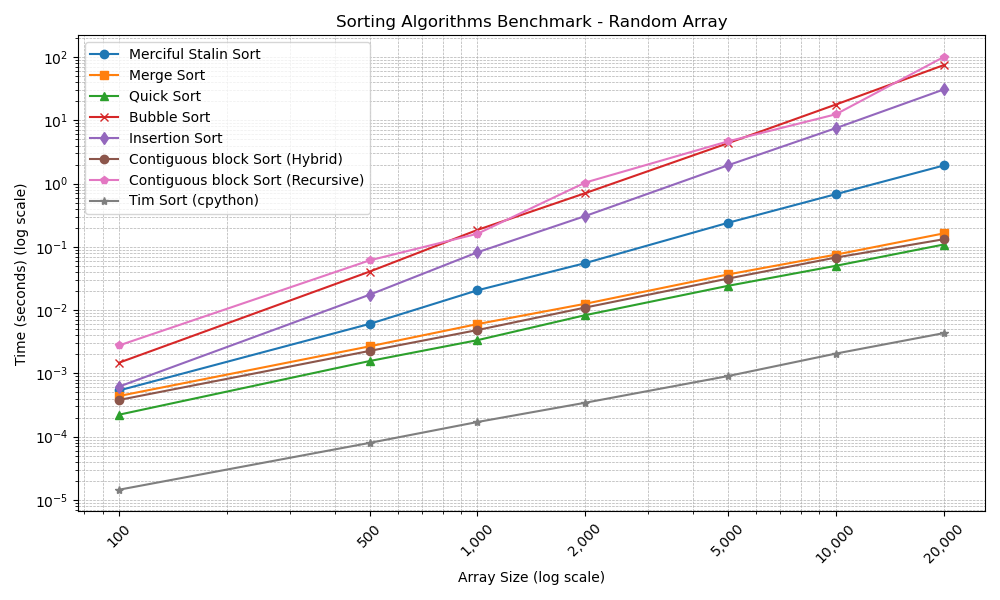
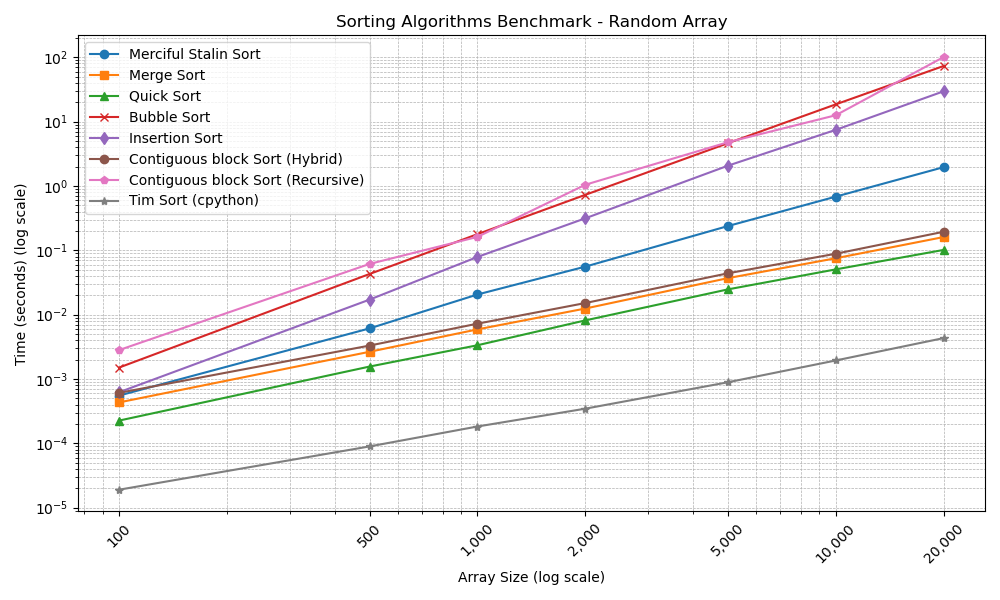
Update project

diff --git a/sorts/contiguous_block_sort_hybrid.py b/sorts/contiguous_block_sort_hybrid.py
@@ -84,4 +84,4 @@ def contiguous_block_sort_hybrid(L):
         return contiguous_range
     s, e = L[:start], L[end:]
     # Merge the three parts: left, contiguous range, and right
-    return quick_sort(merge_arrays(merge_arrays(s, contiguous_range), e))
+    return merge_sort(merge_arrays(merge_arrays(s, contiguous_range), e))

diff --git a/ContiguousBlockSort_README.md b/ContiguousBlockSort_README.md
@@ -7,11 +7,11 @@ This repository contains two implementations of the Contiguous Block Sort algori
 
 ### Hybrid Implementation
 
-The Hybrid implementation of Contiguous Block Sort combines the identification of the longest contiguous subarray with a hybrid sorting approach. It utilizes the Quick Sort algorithm for merging non-contiguous parts.
+The Hybrid implementation of Contiguous Block Sort combines the identification of the longest contiguous subarray with a hybrid sorting approach. It utilizes the Merge Sort algorithm for merging non-contiguous parts.
 
 - **Best Case**: O(n) - The array is fully contiguous and already sorted.
 - **Average Case**: O(n log n) - Typical scenario with mixed order.
-- **Worst Case**: O(n²) - Minimal contiguous subarray segments, requiring extensive merging.
+- **Worst Case**: O(n log n) - Minimal contiguous subarray segments, requiring extensive merging.
 
 ### Recursive Implementation
 
@@ -25,15 +25,15 @@ The Recursive implementation takes a divide-and-conquer approach, sorting the no
 
 | Case          | Hybrid                | Recursive             |
 |---------------|-----------------------|-----------------------|
-| Best Case     | O(n)                 | O(n)                 |
-| Average Case  | O(n log n)           | O(n log n)           |
-| Worst Case    | O(n²)                | O(n²)                |
+| Best Case     | O(n)                  | O(n)                  |
+| Average Case  | O(n log n)            | O(n log n)            |
+| Worst Case    | O(n log n)            | O(n²)                 |
 
 ## Algorithm Analysis
 
 ### Contiguous Block Sort Behavior
 
-Both implementations rely on identifying the **longest contiguous subarray**, which determines the central "sorted" range of the array. Non-contiguous segments are sorted using either recursive calls or hybrid methods involving Quick Sort.
+Both implementations rely on identifying the **longest contiguous subarray**, which determines the central "sorted" range of the array. Non-contiguous segments are sorted using either recursive calls or hybrid methods involving Merge Sort.
 
 ### Runtime Complexity
 
@@ -42,22 +42,22 @@ Both implementations rely on identifying the **longest contiguous subarray**, wh
 
 ### Comparison to Other Algorithms
 
-| Algorithm          | Best Case   | Average Case | Worst Case   |
-|--------------------|-------------|--------------|--------------|
-| Bubble Sort        | O(n)        | O(n²)        | O(n²)        |
-| Insertion Sort     | O(n)        | O(n²)        | O(n²)        |
-| Merge Sort         | O(n log n)  | O(n log n)   | O(n log n)   |
-| Quick Sort         | O(n log n)  | O(n log n)   | O(n²)        |
-| Contiguous Block Sort (Hybrid)  | O(n)        | O(n log n)   | O(n²)        |
-| Contiguous Block Sort (Recursive)| O(n)        | O(n log n)   | O(n²)        |
-| Merciful Stalin Sort| O(n)        | O(n log n)   | O(n log n)   |
+| Algorithm                         | Best Case    | Average Case | Worst Case   |
+|-----------------------------------|--------------|--------------|--------------|
+| Bubble Sort                       | O(n)         | O(n²)        | O(n²)        |
+| Insertion Sort                    | O(n)         | O(n²)        | O(n²)        |
+| Merge Sort                        | O(n log n)   | O(n log n)   | O(n log n)   |
+| Quick Sort                        | O(n log n)   | O(n log n)   | O(n²)        |
+| Contiguous Block Sort (Hybrid)    | O(n)         | O(n log n)   | O(n log n)   |
+| Contiguous Block Sort (Recursive) | O(n)         | O(n log n)   | O(n²)        |
+| Merciful Stalin Sort              | O(n)         | O(n log n)   | O(n log n)   |
 
 ### Key Observations
 
 - **Bubble Sort** and **Insertion Sort** are simpler algorithms but generally inefficient for large datasets due to their O(n²) worst-case complexity.
 - **Merge Sort** provides consistent performance with O(n log n) in all cases, making it a reliable choice for large datasets.
 - **Quick Sort** is highly efficient on average but suffers from O(n²) worst-case complexity in unfavorable conditions.
-- **Contiguous Block Sort** excels when dealing with datasets containing long contiguous subarrays. The Hybrid implementation leverages Quick Sort for additional efficiency in merging.
+- **Contiguous Block Sort** excels when dealing with datasets containing long contiguous subarrays. The Hybrid implementation leverages Merge Sort for additional efficiency in merging.
 
 ### Use Cases
 
